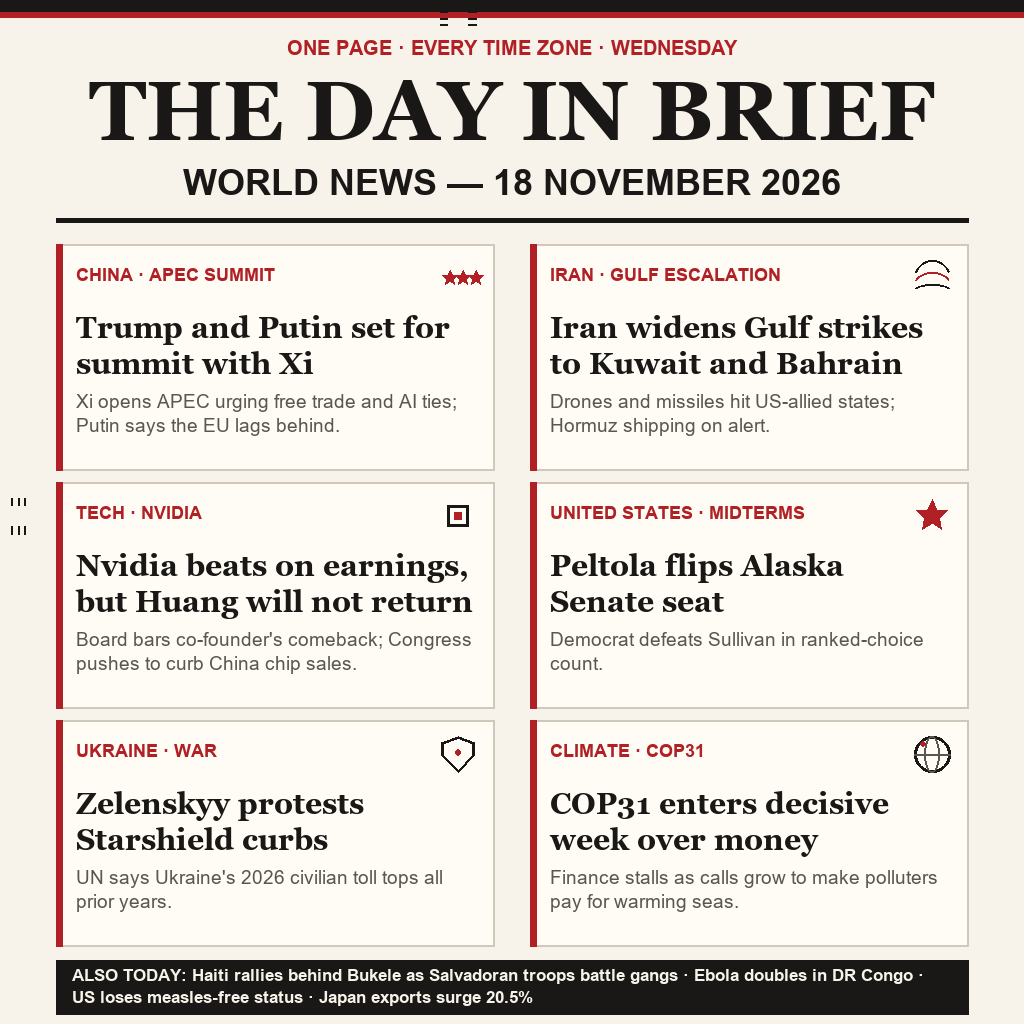
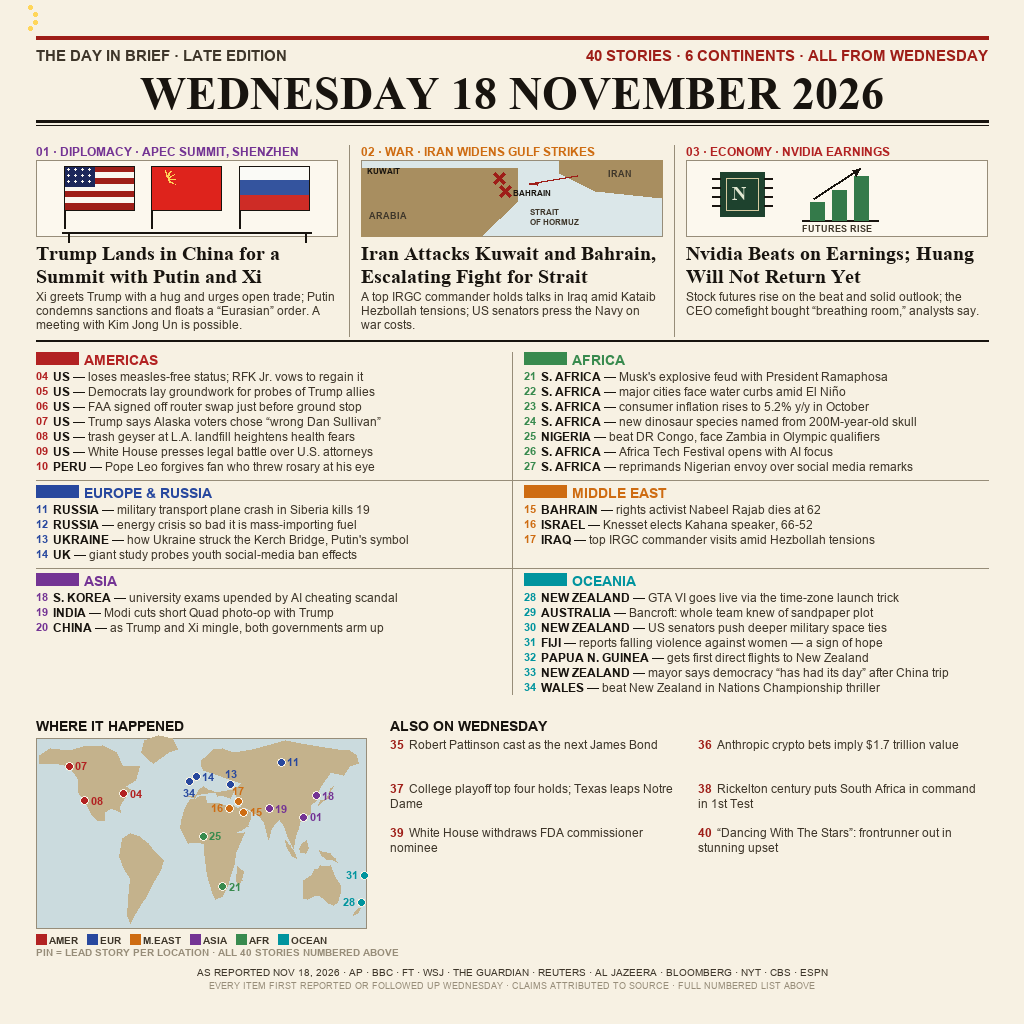
v3: richer layout with inset illustrations, 40+ stories, quantified masthead and world map
Rebuild the day's front page from the 18 November news notes: add inset
illustrations for lead stories, expand coverage to 40+ items across all
regions, add quantified masthead line and a world-map story index.

diff --git a/README.md b/README.md
@@ -12,22 +12,46 @@ grader runs to collect the image.
 
 ## The image
 
-`entry.png` is laid out like a classic broadsheet front page on a
-cream background with bold black serif headlines and red accents:
+`entry.png` is laid out like a classic broadsheet front page on a cream
+background — masthead, three illustrated lead stories, numbered regional
+briefs, a "Where It Happened" world map, and an "Also on Wednesday"
+strip:
 
-- **Masthead** — kicker line "ONE PAGE · EVERY TIME ZONE · WEDNESDAY",
-  the title **THE DAY IN BRIEF**, and the subtitle
-  "WORLD NEWS — 18 NOVEMBER 2026".
-- **Six story cards** in a 2×3 grid, each with a red accent bar and icon:
-  - *China · APEC Summit* — "Trump and Putin set for summit with Xi"
-  - *Iran · Gulf Escalation* — "Iran widens Gulf strikes to Kuwait and Bahrain"
-  - *Tech · Nvidia* — "Nvidia beats on earnings, but Huang will not return"
-  - *United States · Midterms* — "Peltola flips Alaska Senate seat"
-  - *Ukraine · War* — "Zelenskyy protests Starshield curbs"
-  - *Climate · COP31* — "COP31 enters decisive week over money"
-- **Footer bar** — "ALSO TODAY" one-liners: Haiti rallies behind Bukele as
-  Salvadoran troops battle gangs · Ebola doubles in DR Congo · US loses
-  measles-free status · Japan exports surge 20.5%.
+- **Masthead** — kicker row "THE DAY IN BRIEF · LATE EDITION" /
+  "40 STORIES · 6 CONTINENTS · ALL FROM WEDNESDAY", then the date line
+  **WEDNESDAY 18 NOVEMBER 2026** as the page's largest element.
+- **Three illustrated heroes** (01–03), each in a framed panel with
+  deterministic vector art: the APEC summit flags table (Trump–Putin–Xi
+  in Shenzhen), a schematic Gulf theatre map with strike markers (Iran
+  attacks Kuwait and Bahrain), and the Nvidia chip with rising futures
+  bars.
+- **Six regional sections** (04–34) — Americas, Europe & Russia, Middle
+  East, Asia, Africa, Oceania — every brief numbered and color-coded by
+  continent (red / blue / orange / purple / green / teal).
+- **Where It Happened** — an equirectangular world map with numbered
+  pins (colored by continent) marking the lead story for 17 locations.
+- **Also on Wednesday** (35–40) — six one-line briefs (Bond casting,
+  Anthropic's crypto bet, college playoff, Rickelton's century, the
+  withdrawn FDA nominee, "Dancing With The Stars").
+- **Attribution rail** — source credits (AP · BBC · FT · WSJ · Guardian ·
+  Reuters · Al Jazeera · Bloomberg · NYT · CBS · ESPN) and a method line:
+  every item was first reported or followed up on Wednesday, claims
+  attributed to source.
+
+Every fact on the page is documented with publisher and timestamp in
+[`notes.md`](notes.md).
+
+## How the image is built
+
+`render.py` draws the entire page deterministically with Pillow vector
+primitives and system fonts (no randomness, no network): run it twice and
+the PNG bytes are identical, which satisfies the bounty's double-run
+byte-consistency requirement. The graded program is still `main.py`; the
+repository ships the pre-rendered `entry.png` it copies.
+
+```sh
+python render.py   # rebuilds entry.png (requires Pillow)
+```
 
 ## How the grader runs it
 
@@ -56,9 +80,9 @@ sha256sum entry.png out/entry.png
 ```
 
 Both digests must match —
[1 lines of base64/hex data omitted]
-the current `entry.png` (129,804 bytes). Requires Python 3.6+; no
-third-party dependencies.
[1 lines of base64/hex data omitted]
+the current `entry.png` (192,914 bytes). Requires Python 3.6+; no
+third-party dependencies for the graded run.
 
 ## Repository layout
 
@@ -66,6 +90,8 @@ third-party dependencies.
 | ------------ | ---------------------------------------------------- |
 | `entry.png`  | The contest image (1024×1024 PNG).                   |
 | `main.py`    | Entry program; copies `entry.png` to the output dir. |
+| `render.py`  | Deterministic Pillow renderer that builds `entry.png`. |
+| `notes.md`   | Fact base: all 40 stories with publisher + timestamp. |
 | `LICENSE`    | MIT License.                                         |
 
 ---
